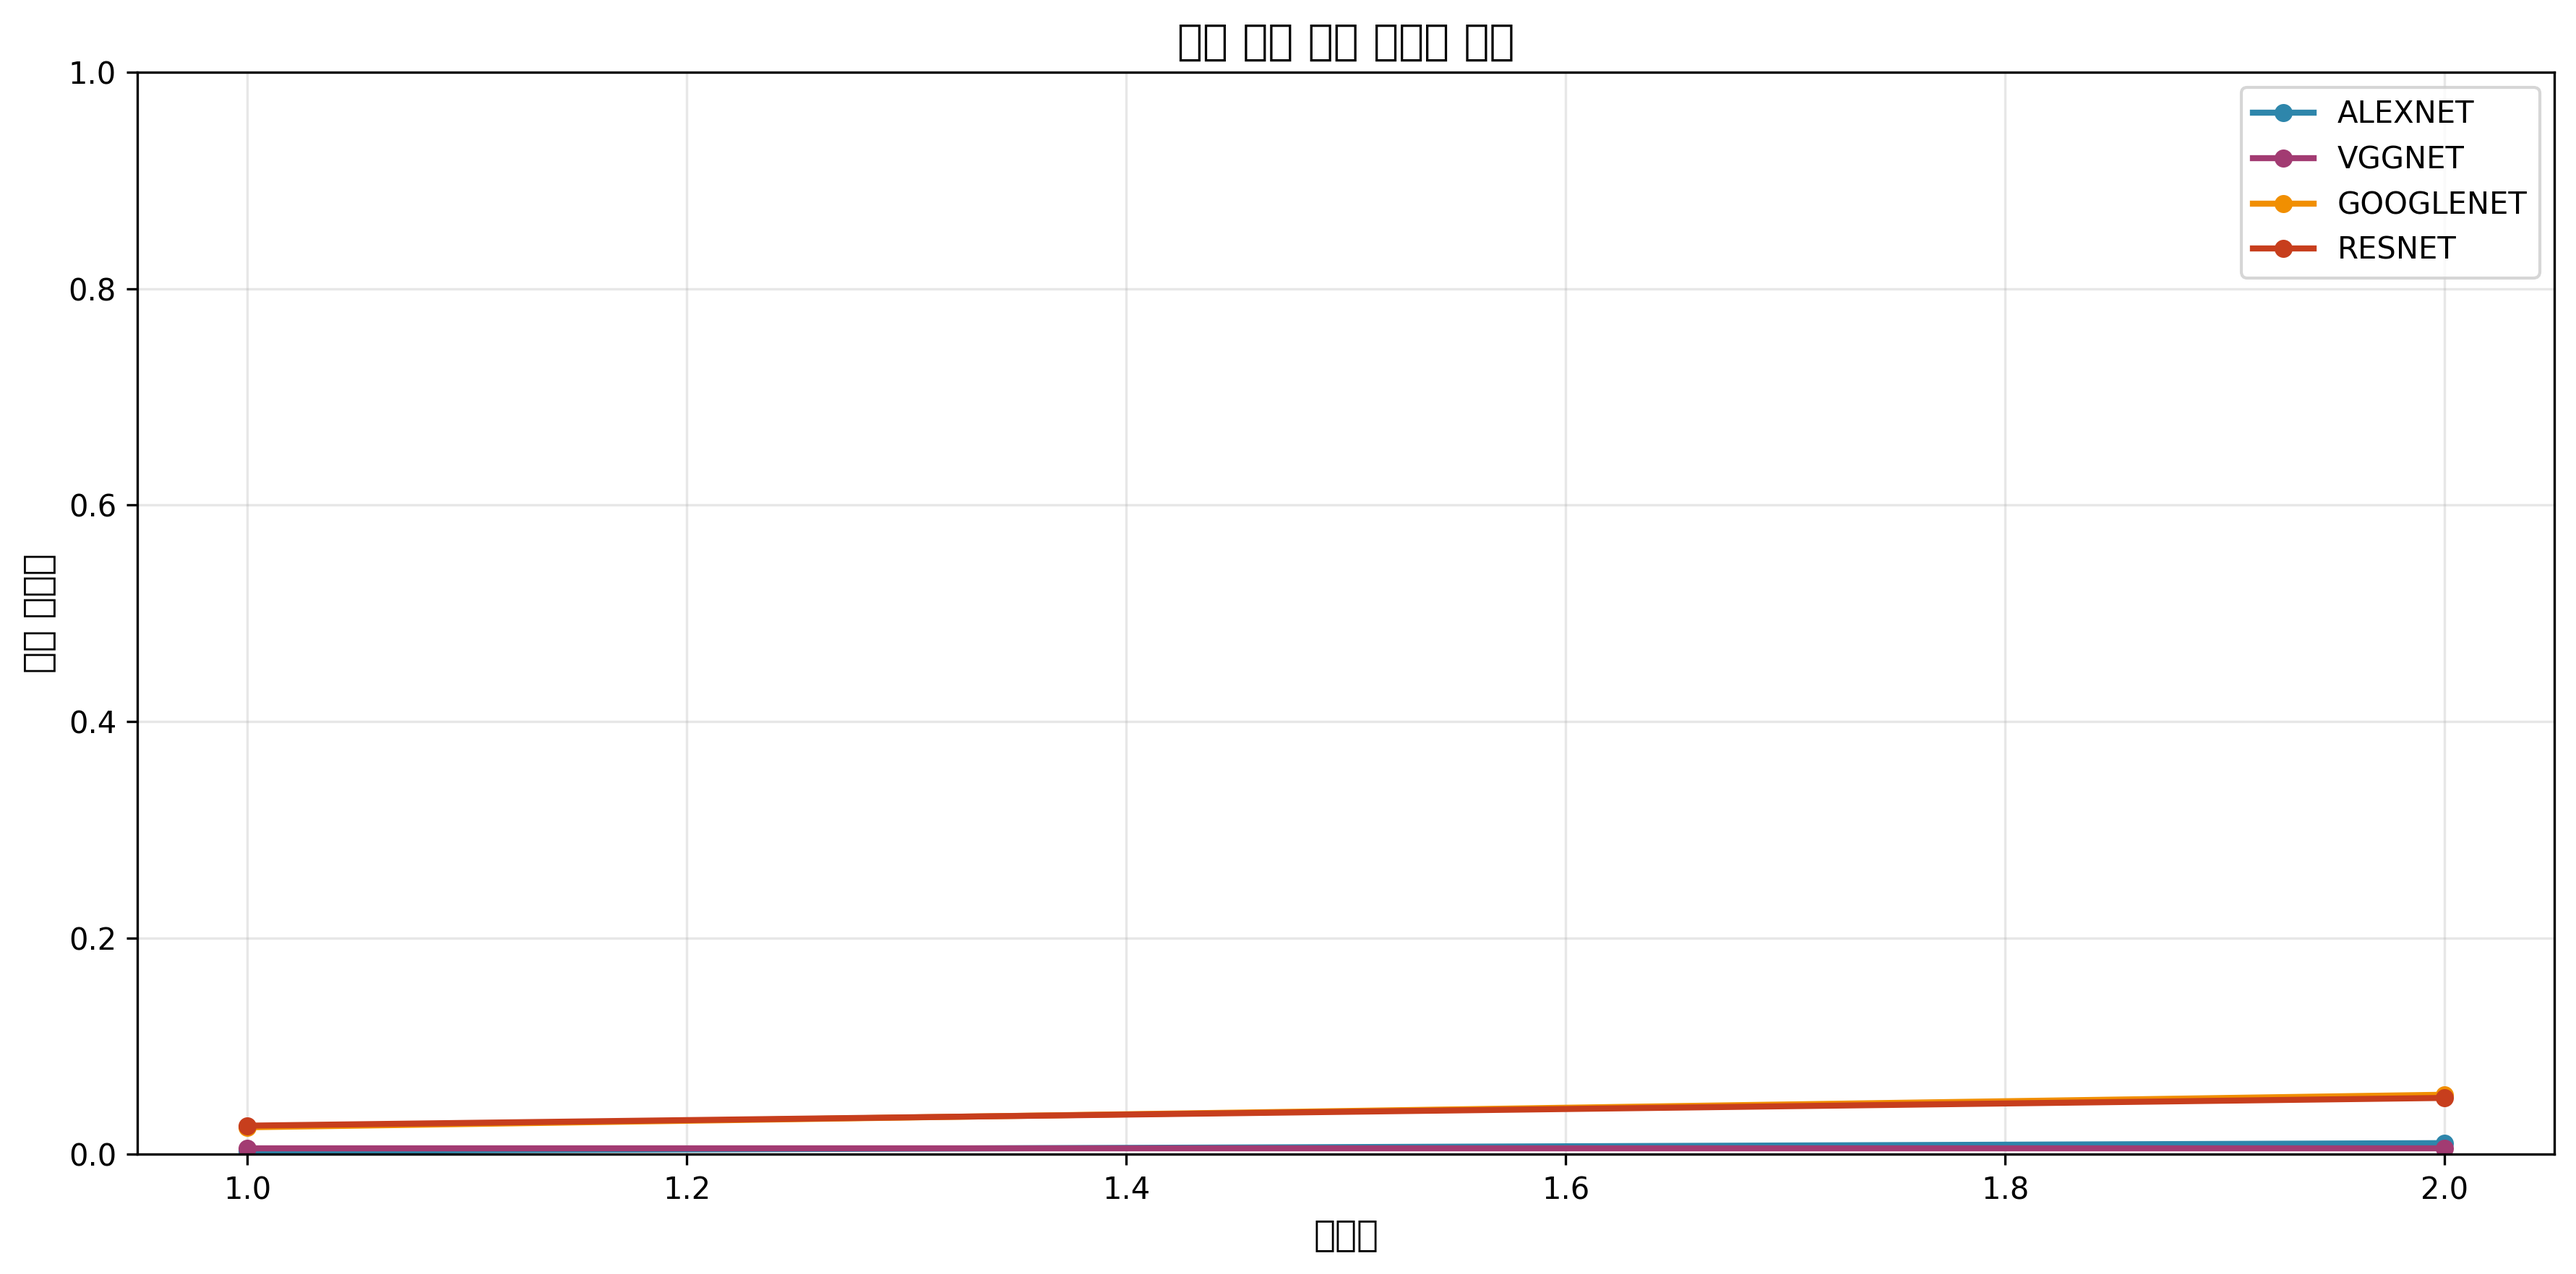
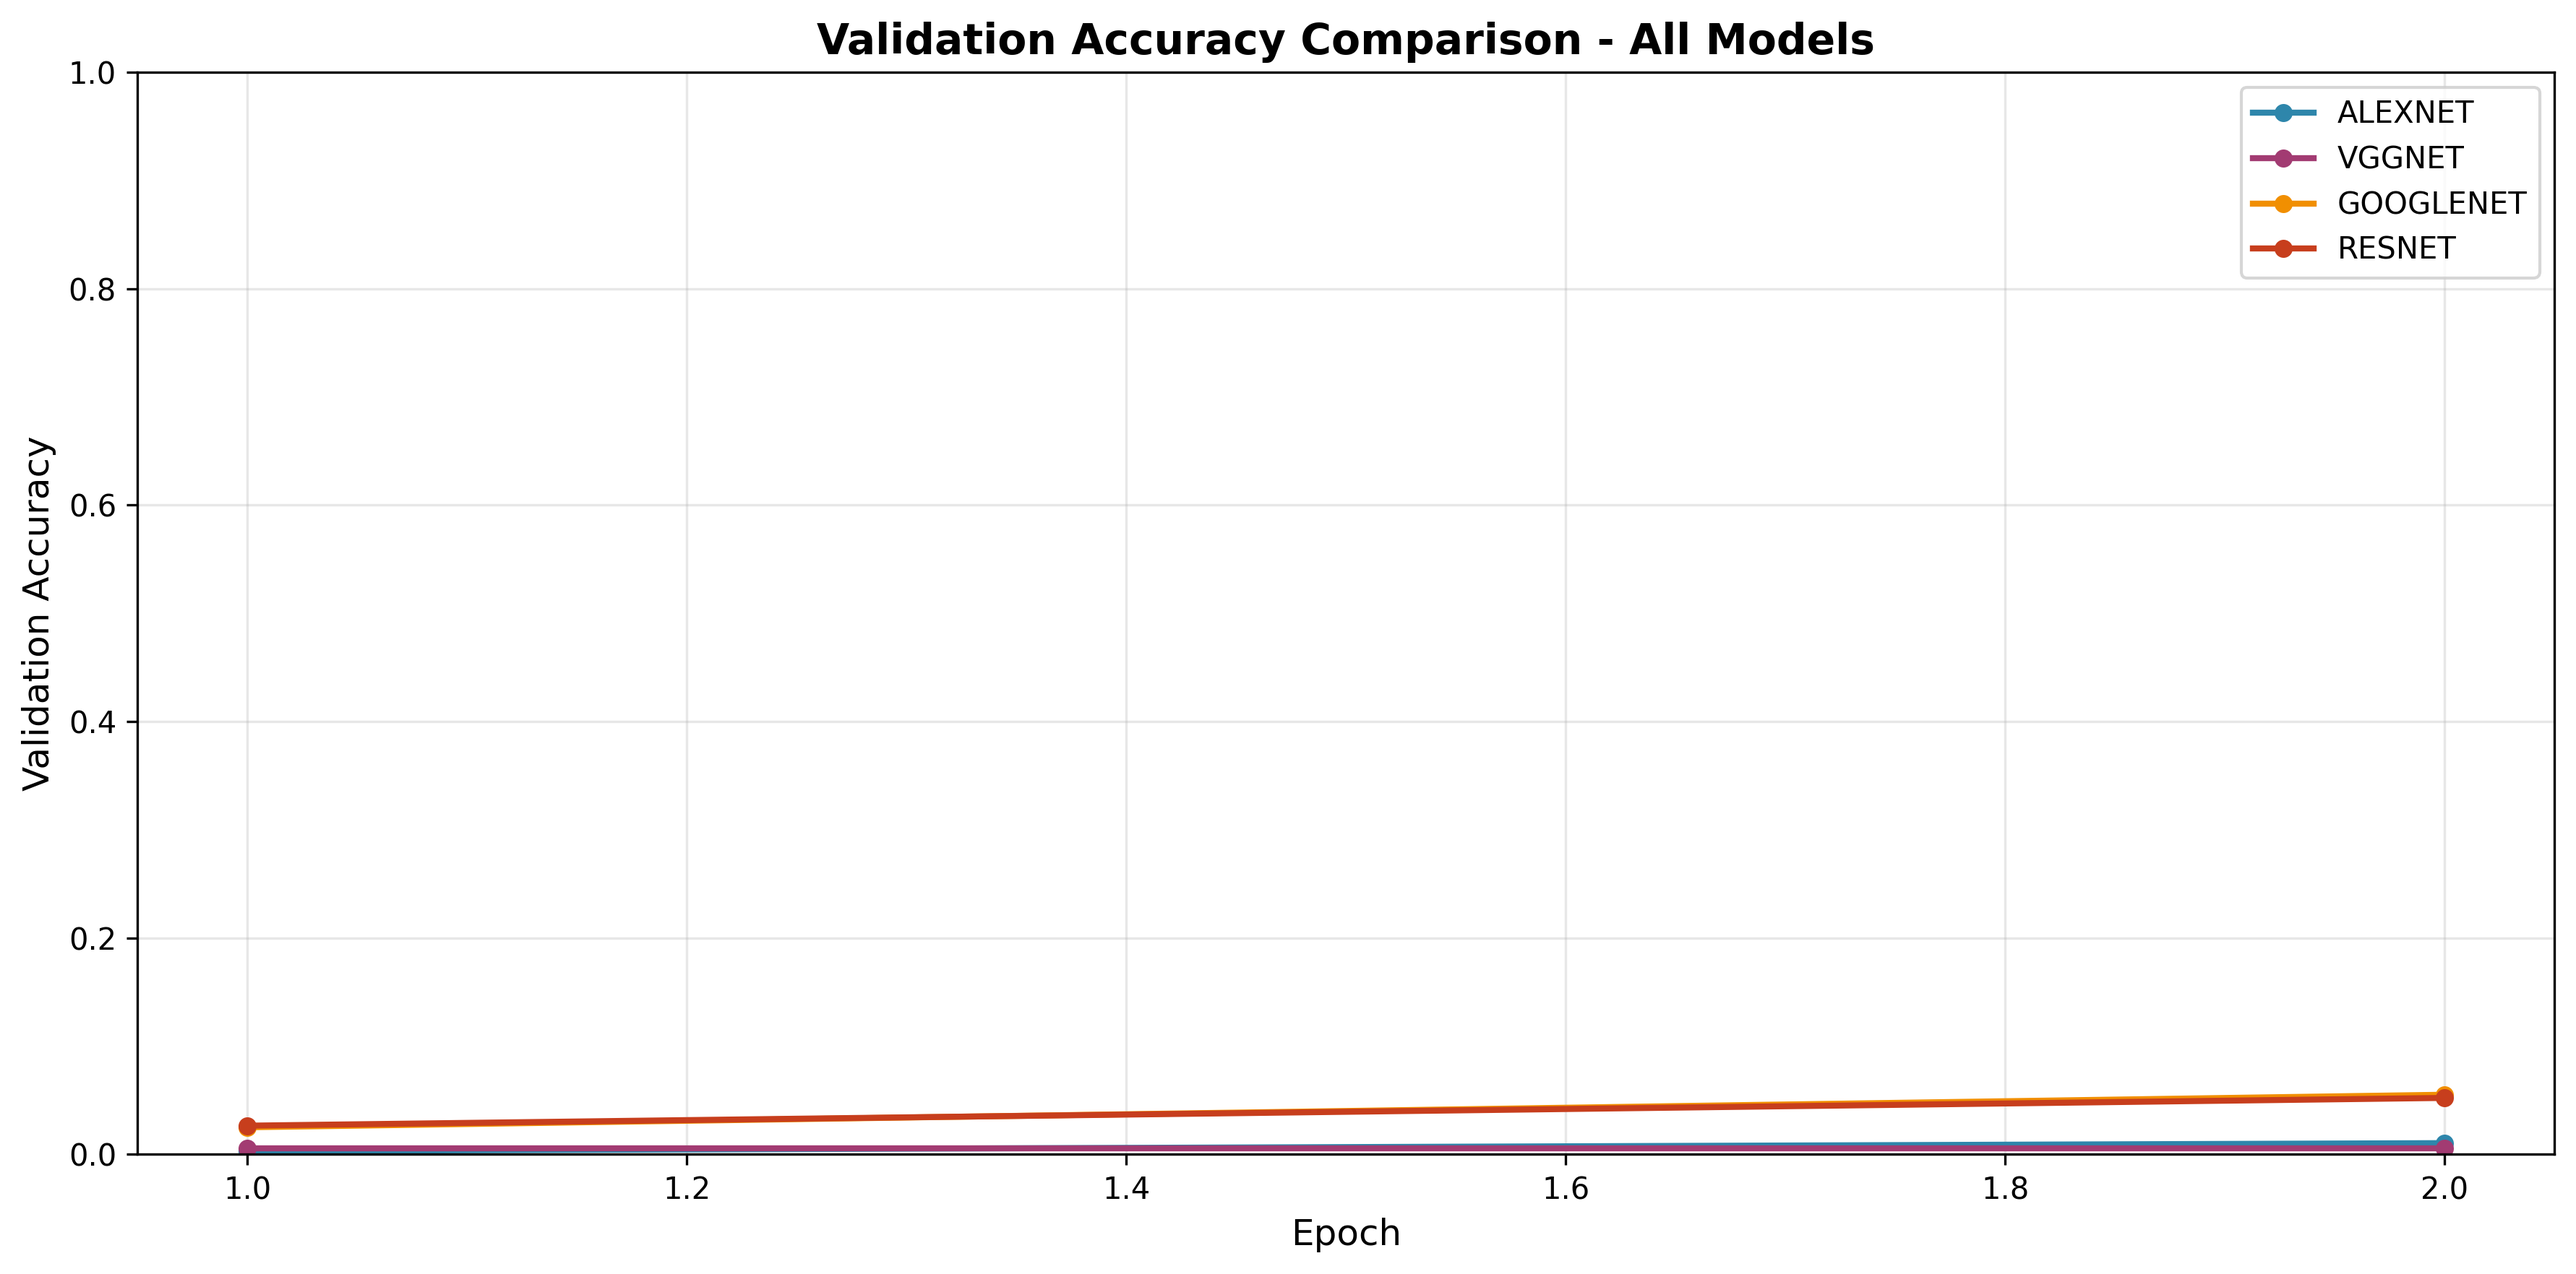
.

Changed region(s): [[0.3114, 0.0, 0.7163, 0.0624], [0.0, 0.343, 0.0311, 0.6236], [0.4983, 0.9354, 0.5295, 0.9977]]

diff --git a/src/analyze_results.py b/src/analyze_results.py
@@ -6,6 +6,9 @@ import numpy as np
 import pandas as pd
 from pathlib import Path
 
+# Set matplotlib to use default font for better English support
+plt.rcParams['axes.unicode_minus'] = False
+
 
 def load_histories(results_dir='results'):
     """Load training history from all models"""
@@ -19,18 +22,18 @@ def load_histories(results_dir='results'):
         if history_file.exists():
             with open(history_file, 'r') as f:
                 histories[model] = json.load(f)
-            print(f"  ✓ {model.upper()} 히스토리 로드 완료")
+            print(f"  ✓ {model.upper()} history loaded")
         else:
-            print(f"  ✗ {model.upper()} 히스토리 파일 없음")
+            print(f"  ✗ {model.upper()} history file not found")
     
-    print(f"\n총 {len(histories)}개 모델 히스토리 로드됨\n")
+    print(f"\nLoaded {len(histories)} model histories\n")
     return histories
 
 
 def plot_accuracy_curves(histories):
     """Plot training and validation accuracy curves for all models"""
     fig, axes = plt.subplots(2, 2, figsize=(16, 12))
-    fig.suptitle('포켓몬 분류 모델 정확도 곡선', fontsize=16, fontweight='bold')
+    fig.suptitle('Pokemon Classifier Model Accuracy Curves', fontsize=16, fontweight='bold')
     
     models = list(histories.keys())
     colors = {'train': '#2E86AB', 'val': '#A23B72'}
@@ -41,27 +44,27 @@ def plot_accuracy_curves(histories):
         epochs = range(1, len(history['train_accs']) + 1)
         
         ax = axes[idx]
-        ax.plot(epochs, history['train_accs'], marker='o', label='학습 정확도', 
+        ax.plot(epochs, history['train_accs'], marker='o', label='Train Accuracy', 
                 color=colors['train'], linewidth=2, markersize=4)
-        ax.plot(epochs, history['val_accs'], marker='s', label='검증 정확도', 
+        ax.plot(epochs, history['val_accs'], marker='s', label='Validation Accuracy', 
                 color=colors['val'], linewidth=2, markersize=4)
         
-        ax.set_xlabel('에포크')
-        ax.set_ylabel('정확도')
-        ax.set_title(f'{model.upper()} - 정확도', fontweight='bold')
+        ax.set_xlabel('Epoch')
+        ax.set_ylabel('Accuracy')
+        ax.set_title(f'{model.upper()} - Accuracy', fontweight='bold')
         ax.legend()
         ax.grid(True, alpha=0.3)
         ax.set_ylim([0, 1])
     
     plt.tight_layout()
     plt.savefig('results/accuracy_curves.png', dpi=300, bbox_inches='tight')
-    print("✓ 정확도 곡선 저장: results/accuracy_curves.png")
+    print("✓ Accuracy curves saved: results/accuracy_curves.png")
 
 
 def plot_loss_curves(histories):
     """Plot training and validation loss curves for all models"""
     fig, axes = plt.subplots(2, 2, figsize=(16, 12))
-    fig.suptitle('포켓몬 분류 모델 손실값 곡선', fontsize=16, fontweight='bold')
+    fig.suptitle('Pokemon Classifier Model Loss Curves', fontsize=16, fontweight='bold')
     
     models = list(histories.keys())
     colors = {'train': '#F18F01', 'val': '#C73E1D'}
@@ -72,25 +75,25 @@ def plot_loss_curves(histories):
         epochs = range(1, len(history['train_losses']) + 1)
         
         ax = axes[idx]
-        ax.plot(epochs, history['train_losses'], marker='o', label='학습 손실값', 
+        ax.plot(epochs, history['train_losses'], marker='o', label='Train Loss', 
                 color=colors['train'], linewidth=2, markersize=4)
-        ax.plot(epochs, history['val_losses'], marker='s', label='검증 손실값', 
+        ax.plot(epochs, history['val_losses'], marker='s', label='Validation Loss', 
                 color=colors['val'], linewidth=2, markersize=4)
         
-        ax.set_xlabel('에포크')
-        ax.set_ylabel('손실값 (Cross Entropy Loss)')
-        ax.set_title(f'{model.upper()} - 손실값', fontweight='bold')
+        ax.set_xlabel('Epoch')
+        ax.set_ylabel('Loss (Cross Entropy Loss)')
+        ax.set_title(f'{model.upper()} - Loss', fontweight='bold')
         ax.legend()
         ax.grid(True, alpha=0.3)
     
     plt.tight_layout()
     plt.savefig('results/loss_curves.png', dpi=300, bbox_inches='tight')
-    print("✓ 손실값 곡선 저장: results/loss_curves.png")
+    print("✓ Loss curves saved: results/loss_curves.png")
 
 
 def compare_models(histories):
     """Create comparison plots and summary table"""
-    # 최종 성능 지표 추출
+    # Extract final performance metrics
     performance_data = []
     
     for model in histories:
@@ -105,44 +108,44 @@ def compare_models(histories):
     
     df_performance = pd.DataFrame(performance_data)
     
-    # 출력
+    # Print results
     print("\n" + "="*80)
-    print("최종 모델 성능 비교")
+    print("Final Model Performance Comparison")
     print("="*80)
     print(df_performance.to_string(index=False))
     print()
     
-    # 최고 성능 모델
+    # Best performing model
     best_model = df_performance.loc[df_performance['Val Accuracy'].idxmax()]
-    print(f"🏆 최고 성능 모델: {best_model['Model']}")
-    print(f"   검증 정확도: {best_model['Val Accuracy']:.4f}")
-    print(f"   검증 손실값: {best_model['Val Loss']:.4f}")
+    print(f"🏆 Best Performing Model: {best_model['Model']}")
+    print(f"   Validation Accuracy: {best_model['Val Accuracy']:.4f}")
+    print(f"   Validation Loss: {best_model['Val Loss']:.4f}")
     print("="*80 + "\n")
     
-    # 비교 그래프
+    # Comparison graphs
     fig, (ax1, ax2) = plt.subplots(1, 2, figsize=(14, 5))
     
     x = np.arange(len(df_performance))
     width = 0.35
     
-    # 정확도 비교
-    ax1.bar(x - width/2, df_performance['Train Accuracy'], width, label='학습 정확도', color='#2E86AB')
-    ax1.bar(x + width/2, df_performance['Val Accuracy'], width, label='검증 정확도', color='#A23B72')
+    # Accuracy comparison
+    ax1.bar(x - width/2, df_performance['Train Accuracy'], width, label='Train Accuracy', color='#2E86AB')
+    ax1.bar(x + width/2, df_performance['Val Accuracy'], width, label='Validation Accuracy', color='#A23B72')
     
-    ax1.set_ylabel('정확도')
-    ax1.set_title('모델별 최종 정확도 비교', fontweight='bold')
+    ax1.set_ylabel('Accuracy')
+    ax1.set_title('Final Accuracy Comparison by Model', fontweight='bold')
     ax1.set_xticks(x)
     ax1.set_xticklabels(df_performance['Model'])
     ax1.legend()
     ax1.grid(True, alpha=0.3, axis='y')
     ax1.set_ylim([0, 1])
     
-    # 손실값 비교
-    ax2.bar(x - width/2, df_performance['Train Loss'], width, label='학습 손실값', color='#F18F01')
-    ax2.bar(x + width/2, df_performance['Val Loss'], width, label='검증 손실값', color='#C73E1D')
+    # Loss comparison
+    ax2.bar(x - width/2, df_performance['Train Loss'], width, label='Train Loss', color='#F18F01')
+    ax2.bar(x + width/2, df_performance['Val Loss'], width, label='Validation Loss', color='#C73E1D')
     
-    ax2.set_ylabel('손실값')
-    ax2.set_title('모델별 최종 손실값 비교', fontweight='bold')
+    ax2.set_ylabel('Loss')
+    ax2.set_title('Final Loss Comparison by Model', fontweight='bold')
     ax2.set_xticks(x)
     ax2.set_xticklabels(df_performance['Model'])
     ax2.legend()
@@ -150,7 +153,7 @@ def compare_models(histories):
     
     plt.tight_layout()
     plt.savefig('results/comparison.png', dpi=300, bbox_inches='tight')
-    print("✓ 모델 비교 그래프 저장: results/comparison.png")
+    print("✓ Model comparison graph saved: results/comparison.png")
     
     return df_performance
 
@@ -167,42 +170,42 @@ def plot_combined_accuracy(histories):
         plt.plot(epochs, history['val_accs'], marker='o', label=model.upper(), 
                 color=colors[idx], linewidth=2, markersize=5)
     
-    plt.xlabel('에포크', fontsize=12)
-    plt.ylabel('검증 정확도', fontsize=12)
-    plt.title('모든 모델 검증 정확도 비교', fontsize=14, fontweight='bold')
+    plt.xlabel('Epoch', fontsize=12)
+    plt.ylabel('Validation Accuracy', fontsize=12)
+    plt.title('Validation Accuracy Comparison - All Models', fontsize=14, fontweight='bold')
     plt.legend(fontsize=10)
     plt.grid(True, alpha=0.3)
     plt.ylim([0, 1])
     plt.tight_layout()
     plt.savefig('results/combined_accuracy.png', dpi=300, bbox_inches='tight')
-    print("✓ 통합 정확도 곡선 저장: results/combined_accuracy.png")
+    print("✓ Combined accuracy curve saved: results/combined_accuracy.png")
 
 
 def main():
     """Main analysis function"""
     print("\n" + "="*80)
-    print("포켓몬 분류 모델 결과 분석")
+    print("Pokemon Classifier Model Results Analysis")
     print("="*80 + "\n")
     
-    # 데이터 로드
+    # Load data
     histories = load_histories()
     
     if not histories:
-        print("❌ 학습 결과가 없습니다. 먼저 train.py를 실행해주세요.")
+        print("❌ No training results found. Please run train.py first.")
         return
     
-    # 그래프 생성
-    print("그래프 생성 중...")
+    # Generate graphs
+    print("Generating graphs...")
     plot_accuracy_curves(histories)
     plot_loss_curves(histories)
     plot_combined_accuracy(histories)
     
-    # 모델 비교
+    # Compare models
     print()
     compare_models(histories)
     
-    print("✓ 모든 분석 완료!")
-    print("  생성된 그래프들은 results/ 폴더에 저장되었습니다.\n")
+    print("✓ Analysis complete!")
+    print("  Generated graphs have been saved in the results/ folder.\n")
 
 
 if __name__ == '__main__':
